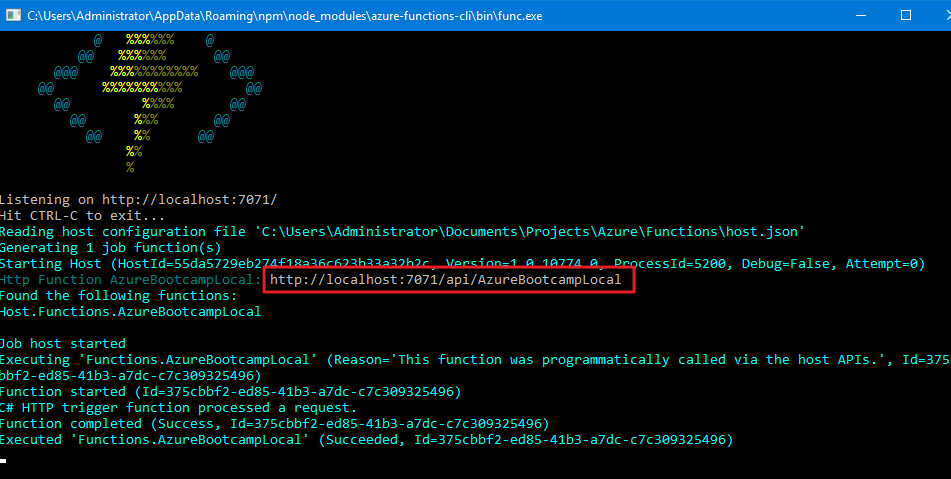
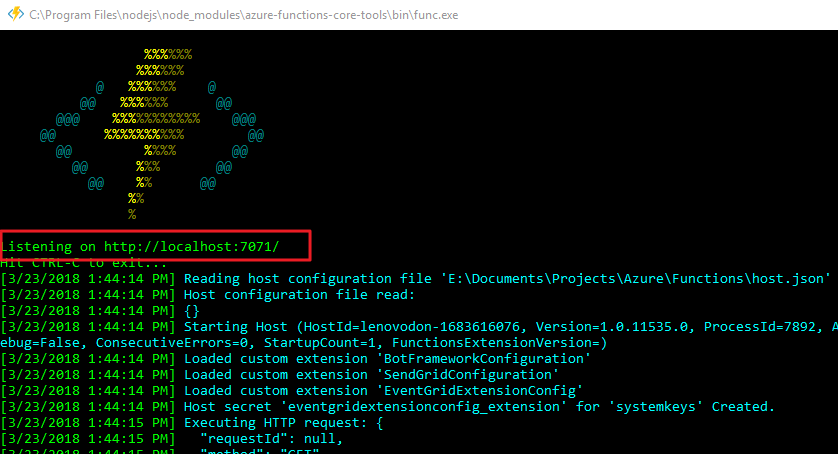
Update Function creation via the CLI

diff --git a/readme.md b/readme.md
@@ -36,10 +36,13 @@ In this lab, you will learn how to:
  ![Screen shot 003 - Select a type of function][3]
 
 7. After the Function is created you get to see a dashboard with some code and a couple of buttons. Just press **Run** and see what happens.
+
 8. In the right bottom corner you can see the output result. Obviously you can change the *name* request property in the request body and press *Run* in the bottom right corner to see the changes.
  ![Screen shote 004 - HTTP Result][4]
+
 9. Now we have a functional 'API' so to speak. We need an URL to send requests to. In the top right corner there is small link **'</> Get function URL'** Click this link to gain the URL. 
  ![Screen shot 005 - API URL][5]
+
 10. You can test this URL by just plain pasting it into the browser and run it. Additionally you can append a 'name' property into the querystring to test the response.
  ![Screen shot 006 - HTTP Response][6]
 
@@ -54,23 +57,23 @@ In this lab, you will learn how to:
 <a name="create-from-cli"></a>
 ## Create a function from the Command Line Interface (CLI)
 
-At this moment the *Azure Functions* option (which is available from the Azure SDK) is not yet supported for Visual Studio 2017. The Microsoft Azure team is working hard to get it live but while I'm writing this Lab there is still no release date available. Source: [GitHub Azure](https://github.com/Azure/Azure-Functions/issues/201)
-The version for Visual Studio 2015 that IS available is not always working as expected. Actually I couldn't get it to work at all.
-Luckily there is a way to create a local Azure Function via the Command Line Interface (CLI).
 In this Lab we will create the same Azure Function as before but we don't create it in the cloud via a fancy portal. We want to create it locally before sending it to Azure. 
 This is convenient because this way we can develop and test the function without any Azure costs (as we are using our localhost IIS as 'provider')
 
 1. First of, make sure you have Node Package Manager (NPM) installed. See [npmjs.org/get-npm](https://www.npmjs.com/get-npm) for more information.
-2. Next, open the command prompt (you can use the nodejs command prompt or the default DOS prompt) and install the *azure-functions-cli* package globally:
+
+2. Next, open the command prompt as administrator (you can use the nodejs command prompt or the default DOS prompt)  navigate to a desired empty folder and install the *azure-functions-core-tools* package globally:
     ```code
-    npm install -g azure-functions-cli
+    npm install -g azure-functions-core-tools
     ```
 
-    Which results in npm downloading and installing the Azure Functions CLI package into the current directory.
+    Which results in npm downloading and installing the _Azure Functions CLI_ package into the current directory.
     ![Screenshot 007 install Azure Functions CLI via NPM][7]
 
 3. Meanwhile create a new folder on a location where you desire to create a new local Azure Function.
+
 4. When the installation is done navigate via the prompt to the directory you just created.
+
 5. Run *func* as a command to the see possible options.
 ![Screenshot 008 Create a new Azure Function via the CLI][8]
 
@@ -78,8 +81,10 @@ This is convenient because this way we can develop and test the function without
     ```code
     func new
     ```
+
 7. It will return a list of language options. Use the **UP** and **DOWN** key to scroll trough the possible options and select **C#** by pressing *Enter*.
-![Screenshot 009 A new function based on C#][9]
+
+    ![Screenshot 009 A new function based on C#][9]
 
 > Tip: Hit CTRL+C to abort the current execution (for instance when you picked the wrong template)
 
@@ -87,25 +92,25 @@ This is convenient because this way we can develop and test the function without
 9. Finally type a name of your Azure Function and press enter to start the creation of the Function. Please be aware that the name you enter here will be created as a folder so try to prevent spaces and other non-folderish-names and keep it short.
 ![Screenshot 010 Naming the Azure function][10]
 
-      >```<nerd-modus>``` 
-      > 
-      > You can also go complete rogue and type the whole command at once by using the following parameters:
-      >
-      > ```func new -l C# -t HttpTrigger -n AzureBootcampLocal```
-      > 
-      >```</nerd-modus>```
+\
+```<nerd-modus>```
 
-    ![Screenshot 011 Be that nerd!][11]
+You can also go rogue and type the whole command at once by using the following parameters:
+
+        > func new -l C# -t HttpTrigger -n AzureBootcampLocal
+![Screenshot 011 Be that nerd!][11]
+
+```</nerd-modus>```
 
 
 10. Now when you check out the directory you can see that a new folder was created, with the name you've just entered and a foursome of files. You can open run.csx and check out the code. That might look a bit familiar. That's because it's the same default template as we created in the online portal. 
-11. Tryin to run this Azure Function with ```func run AzureBootcampLocal``` followed by an extra enter (confirming the launch of a new server) leads to an unforgiving and not-so-very-explanatory exception: **An error occurred while sending the request**
+11. Tryin to run this Azure Function with ```func run AzureBootcampLocal``` followed by an extra enter (confirming the launch of a new server) leads to an unforgiving and not-so-very-explanatory exception: **Unable to find function project root. Expecting to have host.json in function project root.**
 ![Screenshot 012 Wut?!][12]
 
-12. Before you can run the function you need to initialize it first. You can do so by running the next command: ```func init``` (nb. without the name of the project)
-    > Tip: Running ```func init AzureBootcampLocal``` will not work. The files end up in the wrong folder and the server wont start giving you the same exception as earlier 'An error occurred while sending the request'.
+12. Before you can run the function you need to initialize it first. You can do so by running the next command: ```func init```
+
   
-13. After that you can run ```func run AzureBootcampLocal``` again to start up the local server and run your Function. This will open a new Command window showing the host information like below:
+13. After that you can run ```func run AzureBootcampLocal``` again to start up the local server and run your Function. Hit enter when the question appears of always showing a warning. This will open a new Command window showing the host information like below:
  
     ![Screenshot 013 Localhost][13]
 
@@ -120,9 +125,11 @@ This will show up a page confirming that the server is operating and the functio
 16. So append the requested parameter to the URI string and run request again. 
 ![Screenshot 016 Localhost][16]
 
-> You can also use Postman instead of your browser but I just wanted to show the working function.
+> You can also use Postman instead of your browser.
+![Screenshot 017 Request via Postman][17]
 
-17. There you have it (again), A fully functional Azure Function but local so you can test it first.
+
+17. There you have it (again), A fully functional Azure Function, but local so you can test it first.
 
 
 
@@ -147,3 +154,4 @@ For more information, please check out [functions.azure.com](https://functions.a
 [14]: media/014_CLI_New_Function.png
 [15]: media/015_CLI_New_Function.png
 [16]: media/016_CLI_New_Function.png
+[17]: media/017_CLI_New_Function.png
